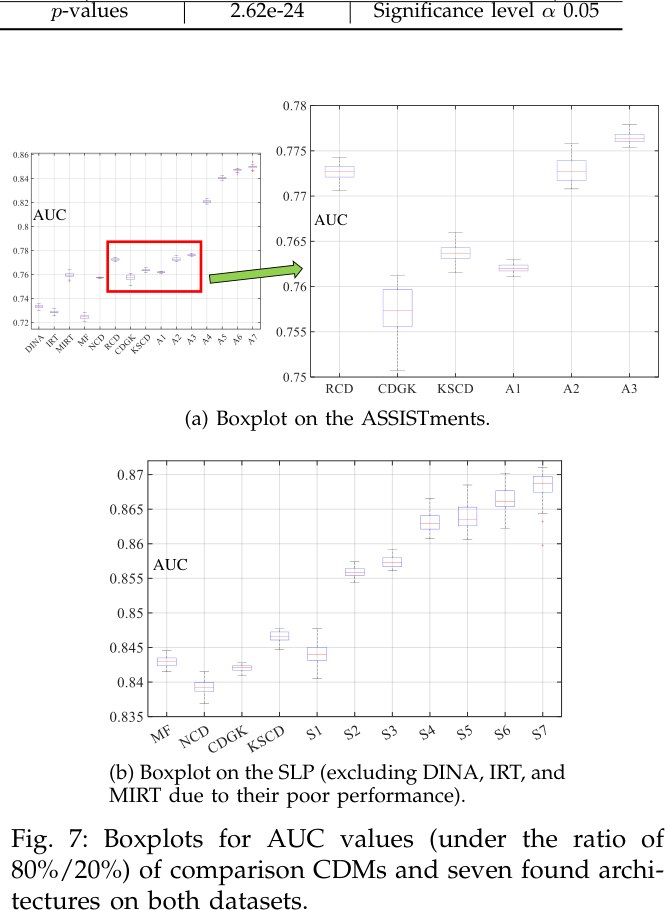
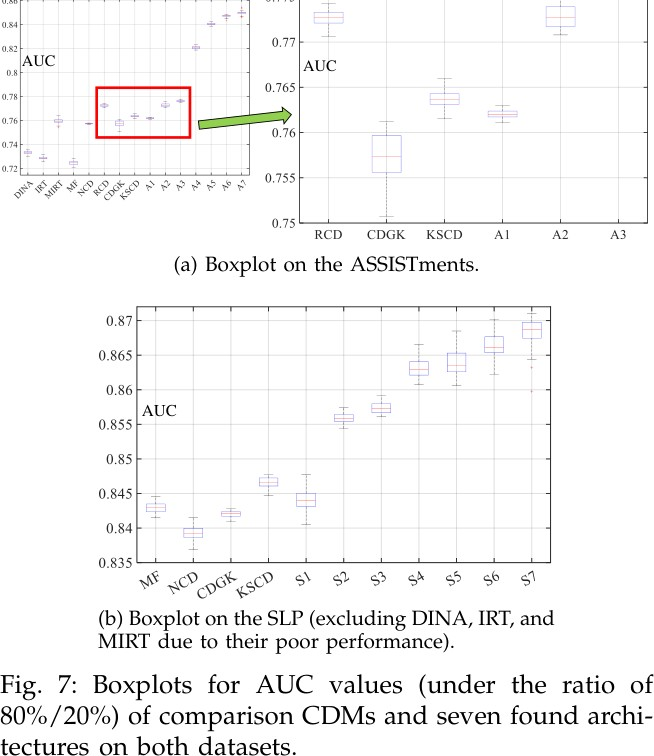
Fix cropped figures: recrop 5 method figs (eqnet/gradient/emonascd/kan/indexed), 3 results figs (peoat/debiased/emonascd), add results figure to emo-nas-cd page

diff --git a/_pages/papers/emo-nas-cd.md b/_pages/papers/emo-nas-cd.md
@@ -73,6 +73,8 @@ The search space is defined over a general cognitive diagnosis model that accept
 
 ## Experimental Results
 
+![Boxplots for AUC values of comparison CDMs and seven found architectures](/assets/img/paper_results/yang2024emonascd.jpg){: .img-fluid .shadow-sm .rounded }
+
 **Compared algorithms:** Representative manually-designed cognitive diagnosis models.
 
 **Datasets:** Multiple real-world educational datasets.
